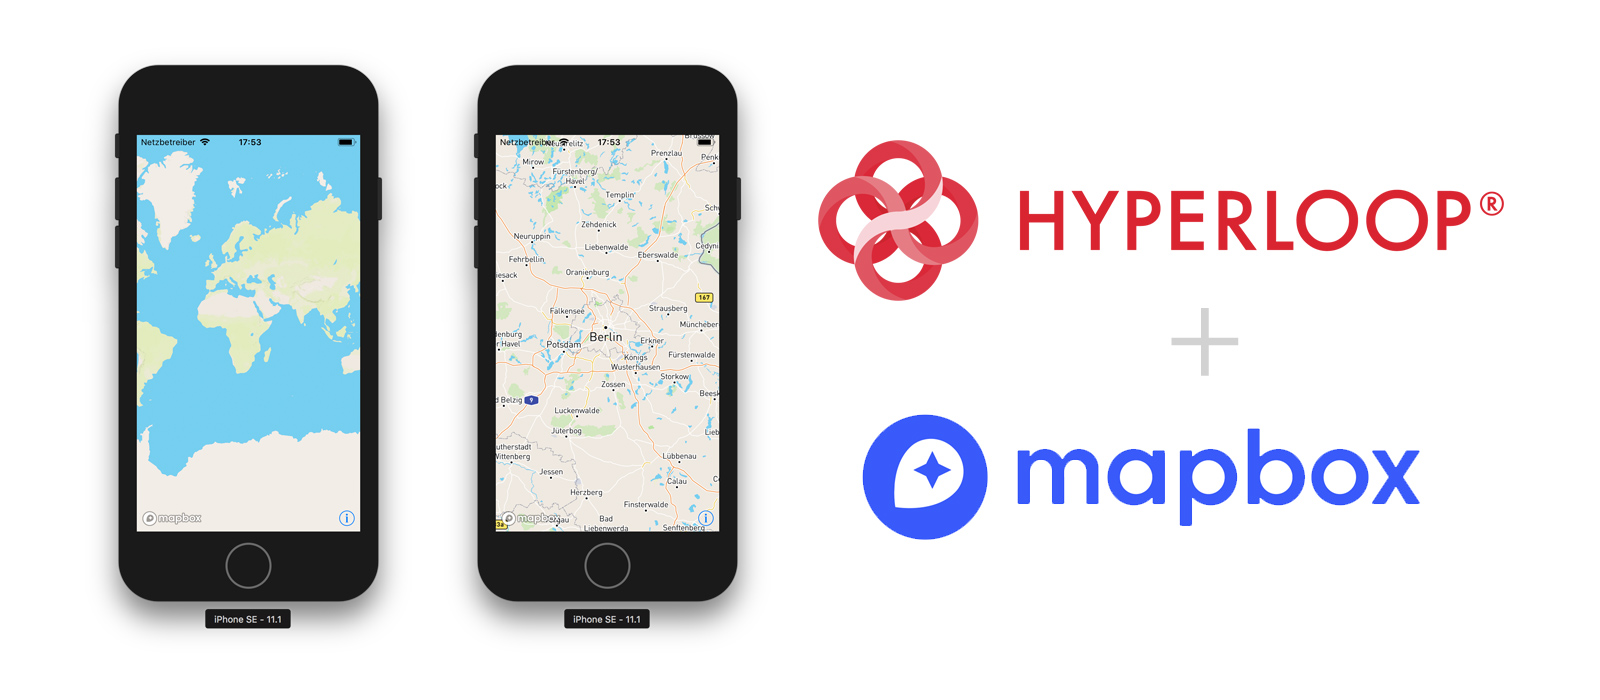
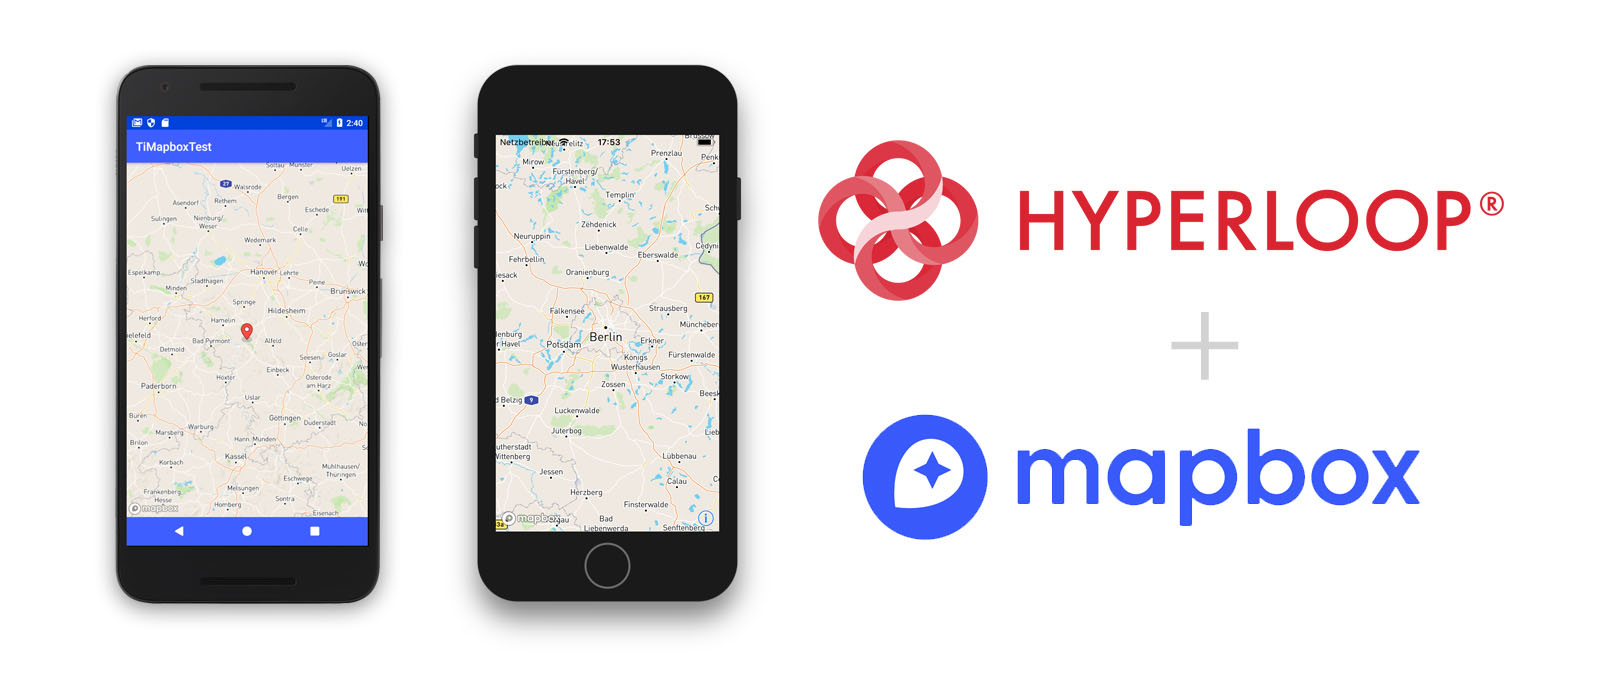
Update readme and example

diff --git a/README.md b/README.md
@@ -1,6 +1,6 @@
 # Mapbox SDK in Titanium and Hyperloop
 
-Use the MapBox SDK in Axway Hyperloop! This is an example of using the SDK, so this does not expose all possible API's
+Use the MapBox SDK (iOS and Android) in Axway Hyperloop! This is an example of using the SDK, so this does not expose all possible API's
 of the SDK. See the [official](https://www.mapbox.com/ios-sdk/) documentation for details.
 
 <img src="example.jpg" width="800" alt="Mapbox SDK in Appcelerator Hyperloop" />
@@ -50,12 +50,13 @@ actual access token
 ```
 
 ## Android Configuration
-- Place your access token in `Resources/android/ti.mapbox/index.js`
-- Run gradle to pull down the necessary android libraries into `platform/android`:
+1. Place your access token in `Resources/android/ti.mapbox/index.js`
+2. Ensure you have installed at least Gradle 4.1 by running `brew install gradle` and `brew update gradle`
+3. Run gradle to pull down the necessary android libraries into `platform/android`:
 ```sh
 gradle getDeps
 ```
-- Now build!
+4. Now build!
 ```sh
 appc run -p android
 ```
@@ -64,7 +65,7 @@ appc run -p android
 
 Apache 2.0
 
-## Author
+## Authors
 
-Hans Knöchel (Axway Appcelerator)
-Chris Williams (Axway Appcelerator)
+- Hans Knöchel (Axway Appcelerator)
+- Chris Williams (Axway Appcelerator)
